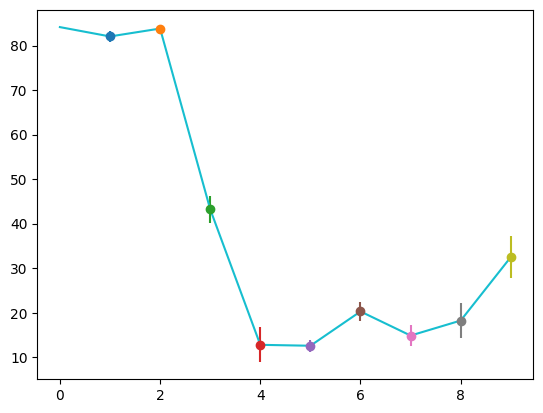
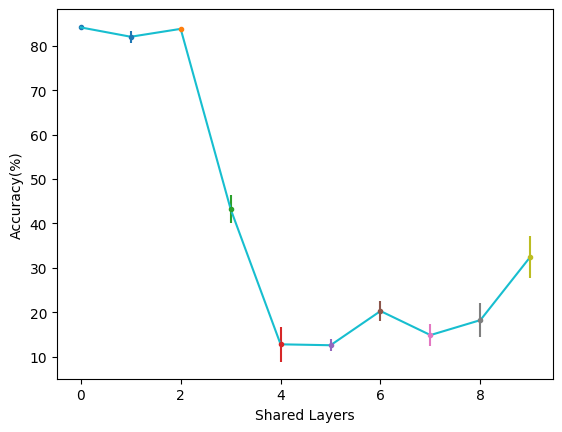
add x_y label

Changed region(s): [[0.0, 0.0, 1.0, 0.9879], [0.0295, 0.8426, 0.0589, 0.9007], [0.0, 0.6392, 0.0589, 0.6683]]

diff --git a/draw_error.py b/draw_error.py
@@ -20,6 +20,9 @@ for idx in range(1, 10, 1):
     mean = np.mean(acc_list)
     std_deviation = np.std(acc_list)
     means.append(mean)
-    plt.errorbar(idx, mean, yerr=std_deviation, fmt="o")
+    plt.errorbar(idx, mean, yerr=std_deviation, fmt=".")
+plt.scatter(0, A_acc, marker='.')
 plt.plot(np.arange(0, 10, 1), means)
+plt.xlabel("Shared Layers")
+plt.ylabel("Accuracy(%)")
 plt.savefig('./output.png', bbox_inches = 'tight')

diff --git a/README.md b/README.md
@@ -2,5 +2,6 @@
 mkdir checkpoints
 CUDA_VISIBLE_DEVICES=0 python train_A.py
 CUDA_VISIBLE_DEVICES=0 python train_B.py --share_n 1
+python draw_error.py
 ```
-![output.jpg](https://github.com/guanghuixu/SharedCNN_Forgetting/blob/master/output.png)
+![output.png](https://github.com/guanghuixu/SharedCNN_Forgetting/blob/master/output.png)
